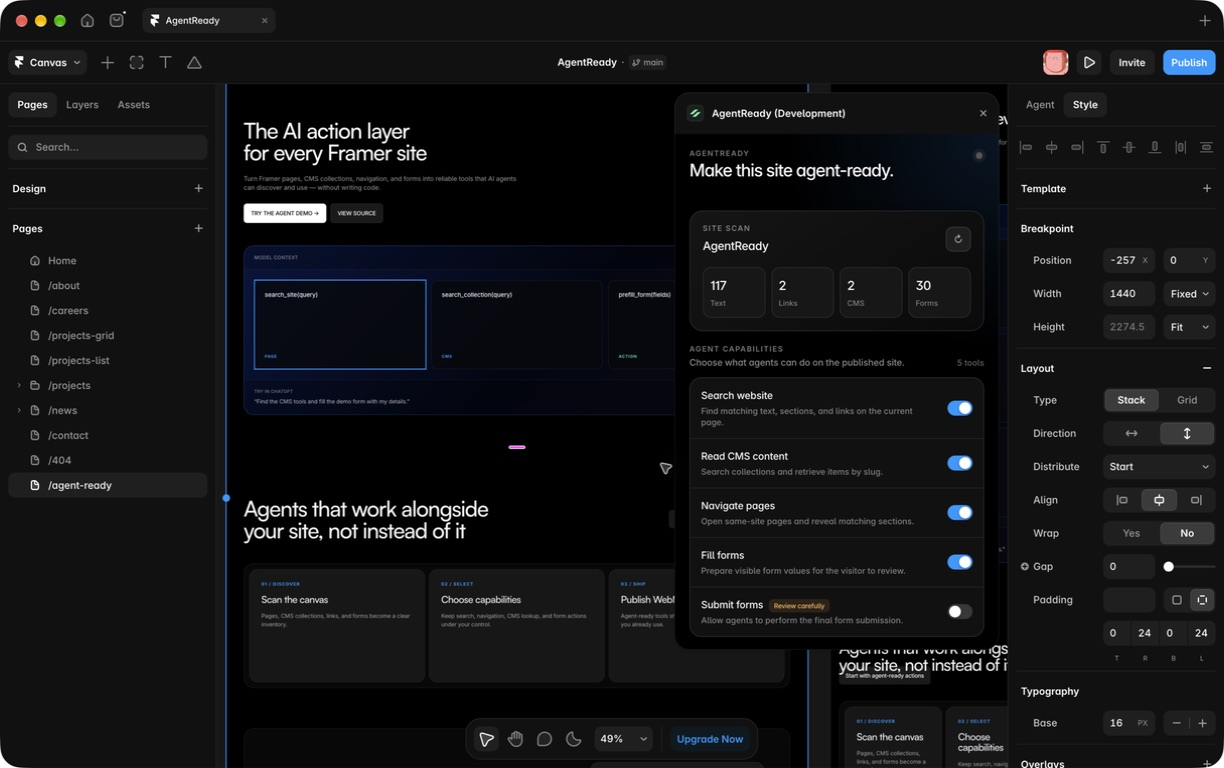
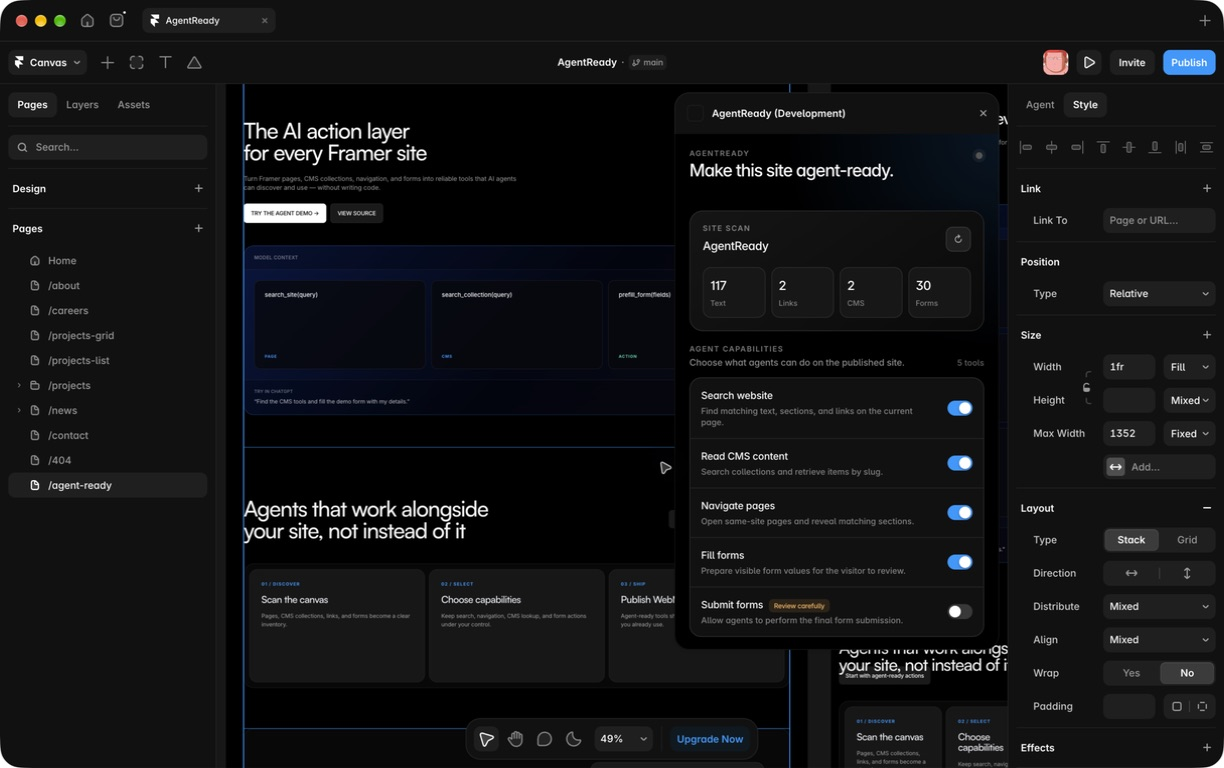
Remove decorative plugin branding

diff --git a/index.html b/index.html
@@ -2,7 +2,7 @@
   <html lang="en">
     <head>
       <meta charset="UTF-8" />
-      <link rel="icon" type="image/svg+xml" href="/icon.svg" />
+      <link rel="icon" type="image/svg+xml" href="/blank.svg" />
       <meta name="viewport" content="width=device-width, initial-scale=1.0" />
       <title>AgentReady for Framer</title>
     </head>
